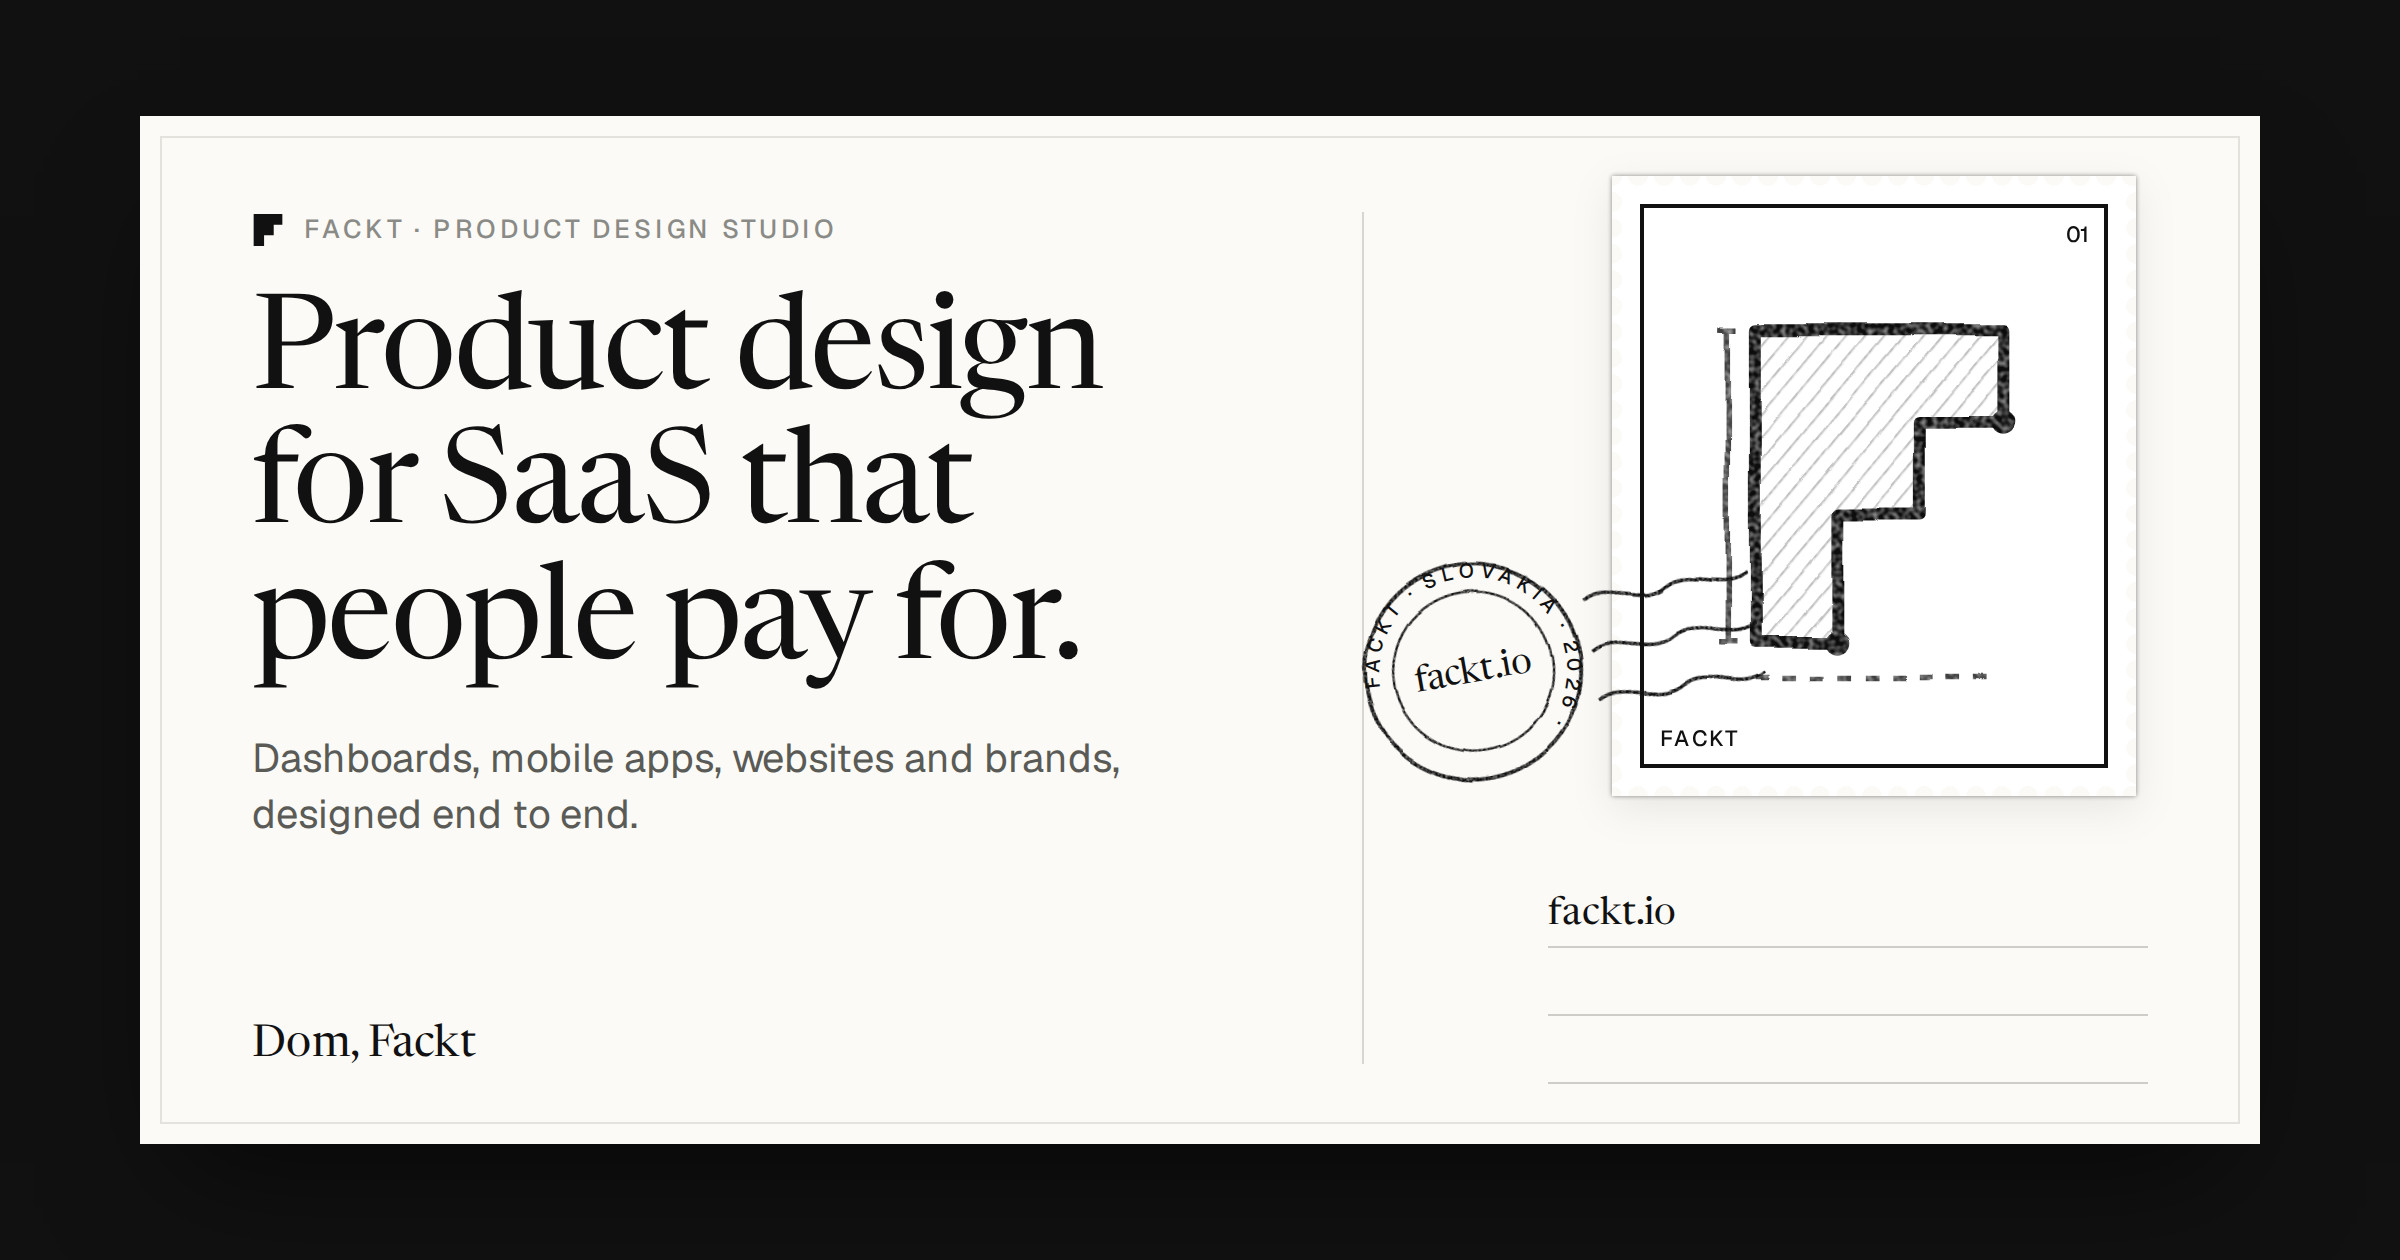
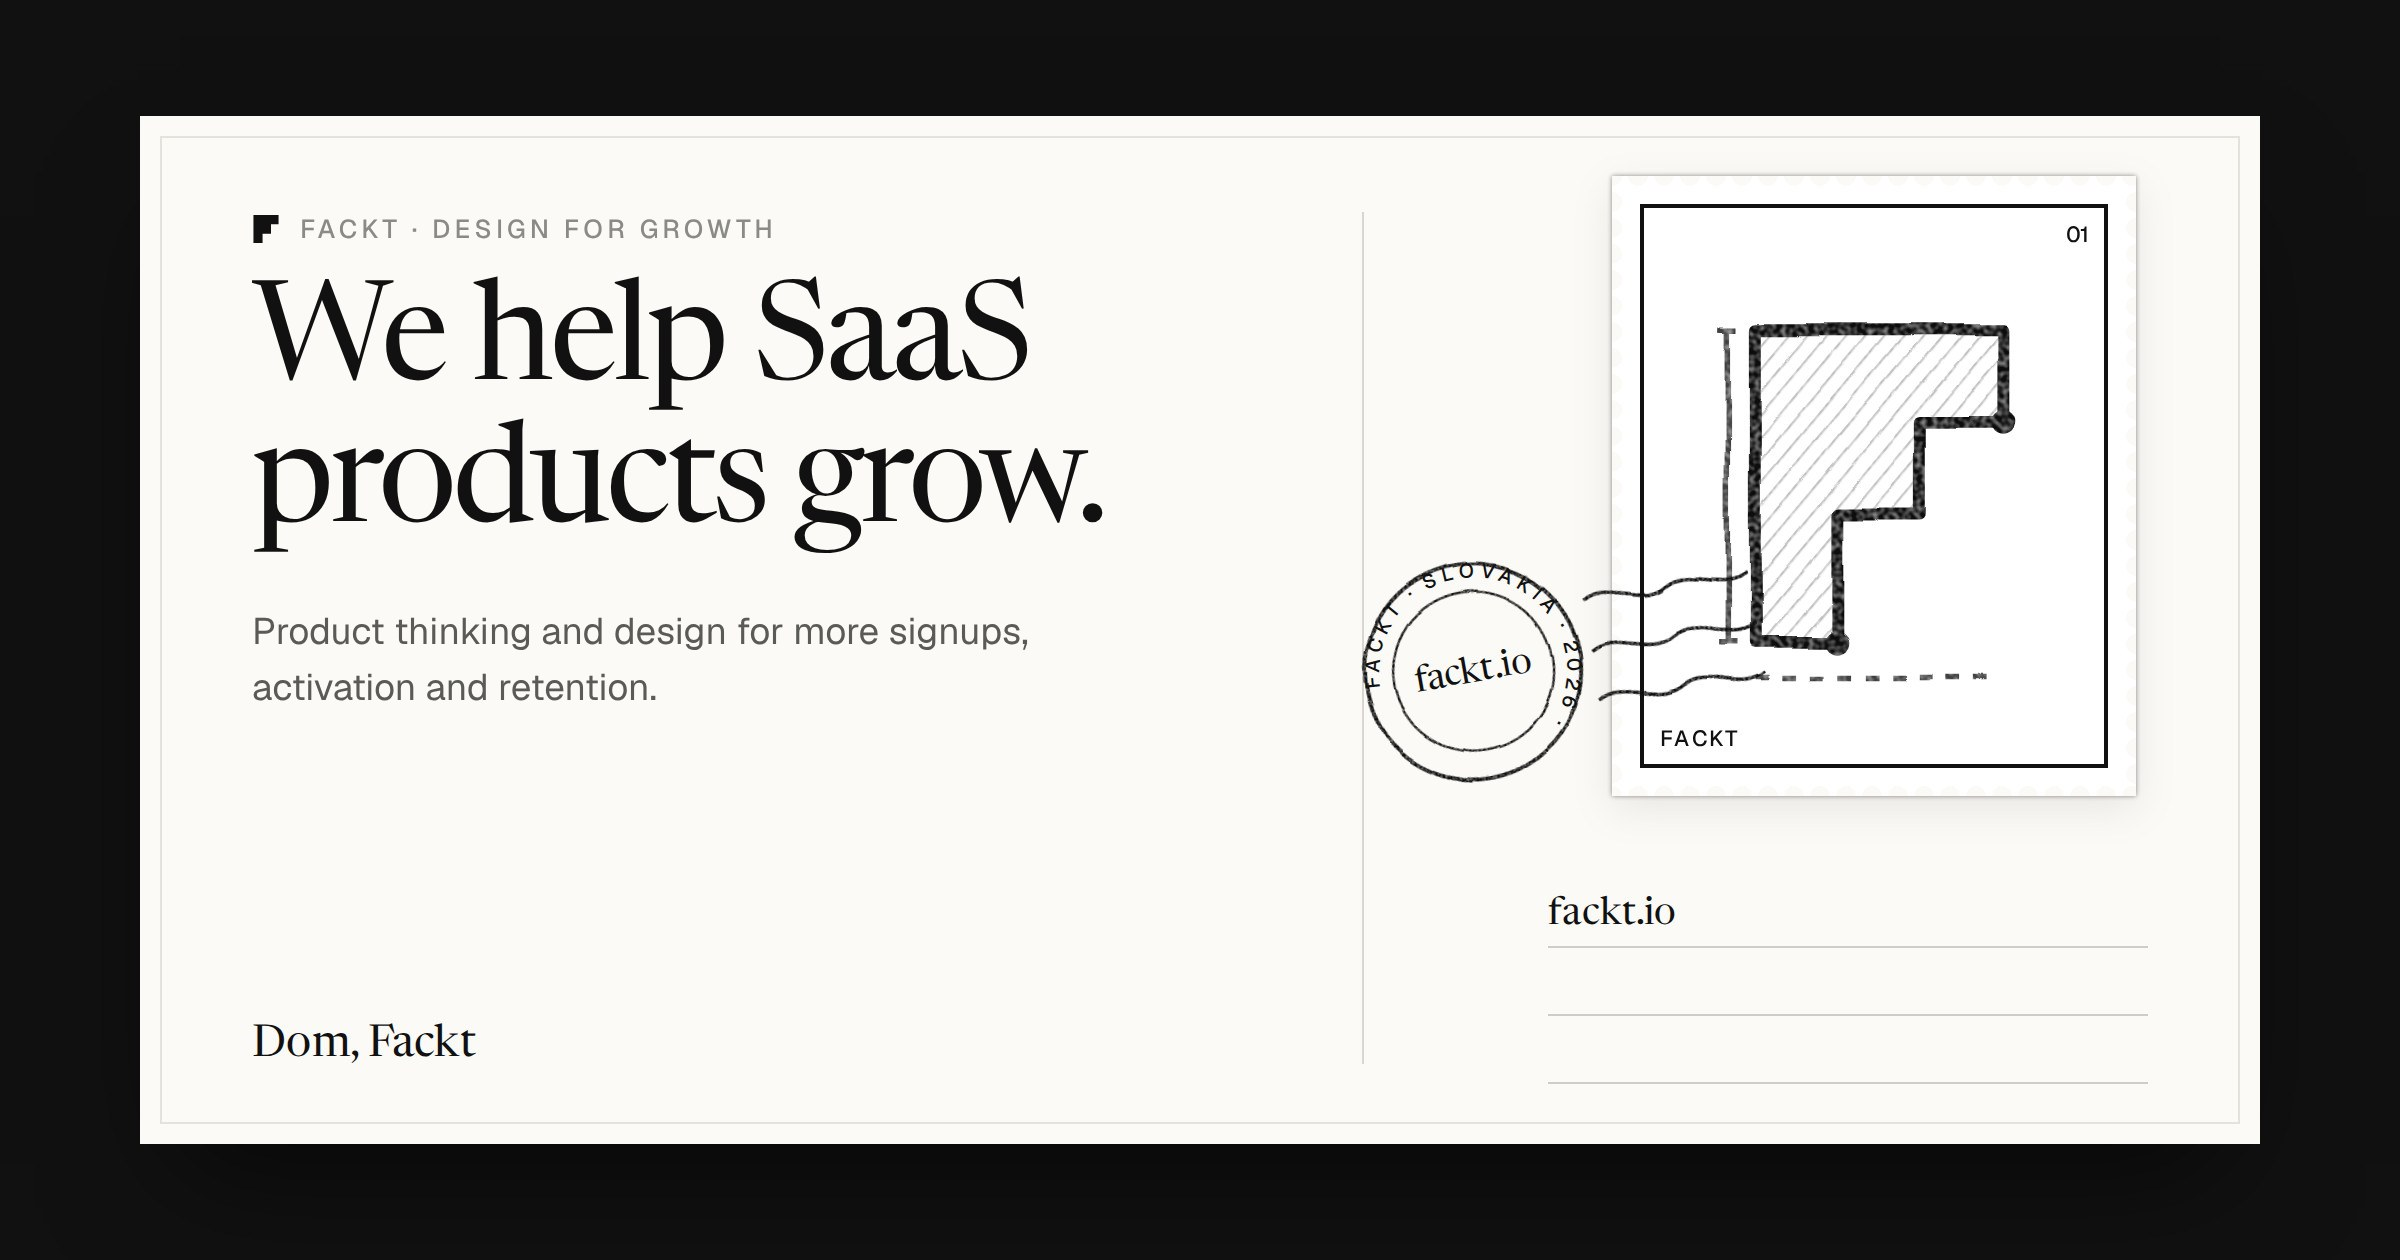
New positioning across the site: we help SaaS products grow with product thinking and design (all homepage versions, meta, services, footer, llms.txt, home OG image, WRITING.md)
Claude-Session: https://claude.ai/code/session_01WrayoPNowcnuQQrWTPqeuS

diff --git a/src/data/site.ts b/src/data/site.ts
@@ -4,9 +4,9 @@
 export const site = {
   name: 'Fackt',
   url: 'https://fackt.io',
-  title: 'Fackt: SaaS product design and UI/UX studio',
+  title: 'Fackt: product design that helps SaaS products grow',
   description:
-    'Independent SaaS product design studio. We design products, dashboards and mobile apps, and build Framer, Webflow and code websites. Start with a free audit.',
+    'Fackt helps SaaS and AI products grow with product thinking and design: audits, product redesigns, websites and brands for signups, activation and retention.',
   email: 'dominik@fackt.io',
   booking: 'https://cal.com/fackt/30min',
   // Expert badges in the footer. Add each profile link once you have it (empty = badge shows without a link).
@@ -42,34 +42,34 @@ export const clients = [
 export const services = [
   {
     title: 'Product Design',
-    short: 'Clear interfaces for complex SaaS and AI products.',
+    short: 'Fix what loses users: onboarding, flows and dashboards.',
     slug: 'product-design',
     shape: 'a',
-    text: 'We turn complex problems into simple, beautiful interfaces. From early concept to a product your users love.',
+    text: 'We find where users get stuck or leave, then redesign those flows. From the audit to dev-ready UI.',
     tags: ['UI/UX Design', 'Mobile Apps', 'Desktop Apps', 'Prototypes'],
   },
   {
     title: 'Web Design & Development',
-    short: 'Sites that explain your product, built in Framer or Webflow.',
+    short: 'Sites that turn visitors into signups, in Framer, Webflow or code.',
     slug: 'web-design-development',
     shape: 'b',
-    text: 'From pre-launch landing pages to complete website redesigns, we create experiences that capture attention and inspire action, built in Framer, Webflow or custom code.',
+    text: 'Landing pages and marketing sites that explain your product fast and turn visitors into signups, built in Framer, Webflow or code.',
     tags: ['UI/UX Design', 'Visual Identity', 'No-Code Development', 'Code Development'],
   },
   {
     title: 'Motion Design',
-    short: 'Animation that shows how your product works.',
+    short: 'Motion that sells the product and shows how it works.',
     slug: 'motion-design',
     shape: 'c',
-    text: 'We use animation and interaction to guide attention, communicate state, and make every action feel satisfying.',
+    text: 'Product animation and ads that show what your product does, so people get it before they read a word.',
     tags: ['Interaction Design', '3D Design', 'Web Animation'],
   },
   {
     title: 'Visual Branding',
-    short: 'A visual identity people remember.',
+    short: 'A brand that makes a young product look established.',
     slug: 'visual-branding',
     shape: 'd',
-    text: 'We build the visual language, voice, and feeling that makes you immediately, unmistakably you.',
+    text: 'A visual identity that makes a young product look established and trusted, in the product and outside it.',
     tags: ['Visual Identity', 'Brand Systems'],
   },
 ] as const;

diff --git a/src/data/servicePages.ts b/src/data/servicePages.ts
@@ -28,8 +28,8 @@ export const servicePages: ServicePage[] = [
     seoTitle: 'SaaS Product Design Agency: UI/UX for dashboards | Fackt',
     seoDescription:
       'Product design for SaaS and tech companies: UX audits, user flows, high fidelity UI, design systems, prototypes and mobile apps, handed off ready for development.',
-    headline: 'SaaS product design that users understand and pay for.',
-    lede: 'We design SaaS platforms, dashboards and mobile apps, from the first user flow to dev-ready UI, so your product is easier to adopt and easier to sell.',
+    headline: 'Product design that grows activation and retention.',
+    lede: 'We find where users get stuck or leave, then design the flows, dashboards and mobile apps that fix it, from the first user flow to dev-ready UI.',
     tint: 'blue',
     work: ['communi', 'floxy', 'glowtify', 'promote-app', 'viewmax', 'earntask'],
     deliverables: [
@@ -93,7 +93,7 @@ export const servicePages: ServicePage[] = [
     seoTitle: 'Motion Design for SaaS | Product animation and Rive | Fackt',
     seoDescription:
       'Motion design for SaaS and tech products: product animations, interaction design, interactive Rive assets, web animation and 3D.',
-    headline: 'Motion that explains your product and makes it feel alive.',
+    headline: 'Motion that sells the product and shows how it works.',
     lede: 'We use animation and interaction to guide attention, communicate state, and make every action in your product and on your site feel satisfying.',
     tint: 'lilac',
     work: ['tradox'],
@@ -125,7 +125,7 @@ export const servicePages: ServicePage[] = [
     seoTitle: 'Brand Identity Design for Tech Startups | Fackt',
     seoDescription:
       'Visual branding for SaaS, AI and tech startups: logo and wordmark, visual identity, brand systems and guidelines that carry into your product and website.',
-    headline: 'Brand identities for tech products and startups.',
+    headline: 'Brand identities that make young tech products look established.',
     lede: 'We build the visual language, voice and feeling that makes you immediately recognisable, and make sure it works inside your product, not just on a logo sheet.',
     tint: 'mint',
     work: ['promote', 'floxy-brand'],

diff --git a/src/pages/llms.txt.ts b/src/pages/llms.txt.ts
@@ -15,7 +15,7 @@ export async function GET() {
 
 > ${site.description}
 
-Fackt is a product design studio founded by Dominik Mészáros (Dom), based in ${site.location} and working with clients worldwide. It designs SaaS products, dashboards, mobile apps and websites for founders and teams, and builds websites in Framer, Webflow or code. Contact: ${site.email}.
+Fackt helps SaaS and AI products grow with product thinking and design. It was founded by Dominik Mészáros (Dom), based in ${site.location} and working with clients worldwide. It designs SaaS products, dashboards, mobile apps and websites for founders and teams, and builds websites in Framer, Webflow or code. Contact: ${site.email}.
 
 ## Key facts
 

diff --git a/WRITING.md b/WRITING.md
@@ -1,5 +1,14 @@
 # Writing for fackt.io
 
+## Positioning (from November 2026)
+
+Fackt helps SaaS and AI products grow, using product thinking and design. Design is the tool, growth is the promise: more signups, activation and retention, not just nicer screens.
+
+- Headline everywhere: "We help SaaS products grow." Support line: "Product thinking and design for founders who need more signups, activation and retention, not just nicer screens."
+- Lead with the business problem (users drop off, trials do not convert, nobody understands the product), then the design that fixes it.
+- Service names stay (Product design, Web design and development, Motion design, Visual branding) because people search for them; their descriptions lead with the outcome.
+- Proof is real work only: FireCut's 100 cancellation reasons, Shredder's onboarding and paywall rounds, Promote's reported numbers. Never invent growth numbers.
+
 ## The golden rule
 
 Every blog note and every piece of site copy must be so valuable that after reading a few paragraphs, a founder has no reason not to book a call, and thinks: "wow, that makes sense."
